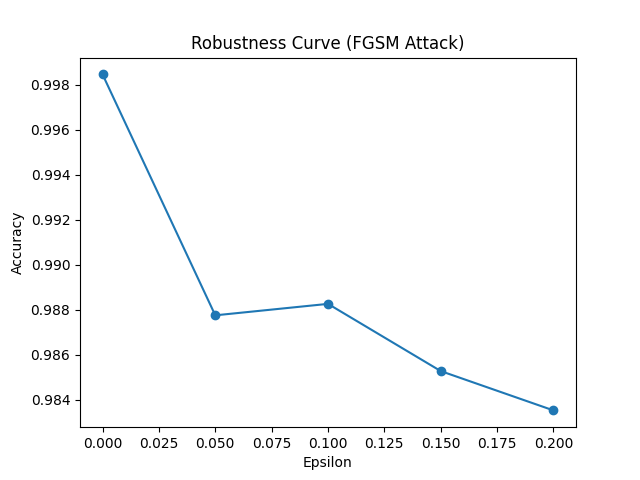
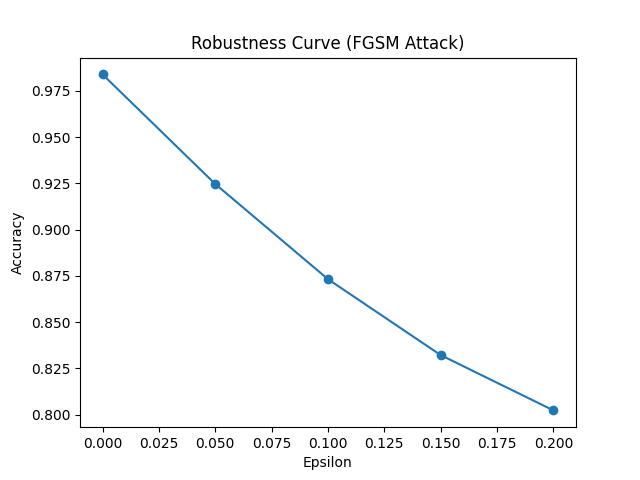
Adversarial and pre adversarial model trained with full week dataset

diff --git a/train_adversarial.py b/train_adversarial.py
@@ -10,7 +10,7 @@ from model import XAI_CTI_Model
 device = torch.device("cuda" if torch.cuda.is_available() else "cpu")
 
 print("Loading data...")
-X_train, X_test, y_train, y_test, feature_names = load_data("data/cic_ids.csv")
+X_train, X_test, y_train, y_test, feature_names = load_data("data/full_week.csv")
 
 train_loader = DataLoader(
     TensorDataset(X_train, y_train),
@@ -22,7 +22,7 @@ model = XAI_CTI_Model(input_dim=X_train.shape[1]).to(device)
 criterion = nn.CrossEntropyLoss()
 optimizer = optim.Adam(model.parameters(), lr=0.001)
 
-epsilon = 0.1
+epsilon = 0.01
 epochs = 5
 
 def fgsm_attack(model, data, target, epsilon):

diff --git a/explain_shap.py b/explain_shap.py
@@ -9,11 +9,11 @@ from model import XAI_CTI_Model
 device = torch.device("cpu")
 
 print("Loading data...")
-X_train, X_test, y_train, y_test, feature_names = load_data("data/cic_ids.csv")
+X_train, X_test, y_train, y_test, feature_names = load_data("data/full_week.csv")
 
 print("Loading trained model...")
 model = XAI_CTI_Model(input_dim=X_train.shape[1])
-model.load_state_dict(torch.load("xai_cti_model.pth", map_location=device))
+model.load_state_dict(torch.load("xai_cti_model_adv.pth", map_location=device))
 model.eval()
 
 # Small background set for SHAP

diff --git a/merge_fullweek.py b/merge_fullweek.py
@@ -1,0 +1,23 @@
+import pandas as pd
+import glob
+import os
+
+data_path = "data"
+
+# Get all csv files in data folder
+files = glob.glob(os.path.join(data_path, "*.csv"))
+
+df_list = []
+
+for file in files:
+    print("Loading:", file)
+    df = pd.read_csv(file)
+    df.columns = df.columns.str.strip()
+    df_list.append(df)
+
+full_df = pd.concat(df_list, ignore_index=True)
+
+print("Final merged shape:", full_df.shape)
+
+full_df.to_csv("data/full_week.csv", index=False)
+print("Saved as data/full_week.csv")

diff --git a/adversarial_test.py b/adversarial_test.py
@@ -9,7 +9,7 @@ from model import XAI_CTI_Model
 device = torch.device("cuda" if torch.cuda.is_available() else "cpu")
 
 print("Loading data...")
-X_train, X_test, y_train, y_test, feature_names = load_data("data/cic_ids.csv")
+X_train, X_test, y_train, y_test, feature_names = load_data("data/full_week.csv")
 
 model = XAI_CTI_Model(input_dim=X_train.shape[1]).to(device)
 model.load_state_dict(torch.load("xai_cti_model_adv.pth", map_location=device))

diff --git a/robustness_curve.py b/robustness_curve.py
@@ -9,7 +9,7 @@ from model import XAI_CTI_Model
 
 device = torch.device("cuda" if torch.cuda.is_available() else "cpu")
 
-X_train, X_test, y_train, y_test, feature_names = load_data("data/cic_ids.csv")
+X_train, X_test, y_train, y_test, feature_names = load_data("data/full_week.csv")
 
 model = XAI_CTI_Model(input_dim=X_train.shape[1]).to(device)
 model.load_state_dict(torch.load("xai_cti_model_adv.pth", map_location=device))

diff --git a/train_gpu.py b/train_gpu.py
@@ -11,11 +11,11 @@ device = torch.device("cuda" if torch.cuda.is_available() else "cpu")
 print("Using device:", device)
 
 # Load data
-X_train, X_test, y_train, y_test, feature_names = load_data("data/cic_ids.csv")
+X_train, X_test, y_train, y_test, feature_names = load_data("data/full_week.csv")
 
 train_loader = DataLoader(
     TensorDataset(X_train, y_train),
-    batch_size=16,
+    batch_size=8,
     shuffle=True
 )
 

diff --git a/demo.py b/demo.py
@@ -11,7 +11,7 @@ device = torch.device("cpu")
 print("\n========== XAI-CTI DEMO ==========\n")
 
 # Load data
-X_train, X_test, y_train, y_test, feature_names = load_data("data/cic_ids.csv")
+X_train, X_test, y_train, y_test, feature_names = load_data("data/full_week.csv")
 
 # Load adversarially trained model (stronger one)
 model = XAI_CTI_Model(input_dim=X_train.shape[1])
